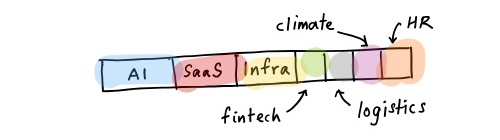
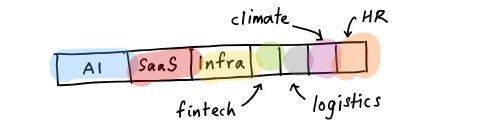
layout tweaks

Changed region(s): [[0.0909, 0.0571, 0.8788, 0.9143]]

diff --git a/assets/css/style.css b/assets/css/style.css
@@ -92,6 +92,16 @@ th, td {
 }
 
 
+.image3 {
+  display: block;
+  margin-left: auto;
+  margin-right: auto;
+  margin-top: 0px;
+  margin-bottom: 0px;
+  width: 400px;
+}
+
+
 .footer {
   font-size: 15px;
   line-height: 1.5;

diff --git a/essays/6-months-of-angel-investing.md b/essays/6-months-of-angel-investing.md
@@ -53,16 +53,16 @@ These 3 investments join the 7 investments I made in the preceding 2 years, givi
 Here are a few different ways to slice my portfolio.
 
 * By geography: 6 Canada, 3 USA, 1 Europe. 
-<img src="/assets/img/slice-geography.jpg" class="image">
+<img src="/assets/img/slice-geography.jpg" class="image3">
 
 * By deal source: 4 cold inbound, 4 warm intros, 2 personal network. 
-<img src="/assets/img/slice-channel.jpg" class="image">
+<img src="/assets/img/slice-channel.jpg" class="image3">
 
 * By founder demographics: 16 of 22 founders are women and/or minorities and/or first-generation immigrants.  
-<img src="/assets/img/slice-founders.jpg" class="image">
+<img src="/assets/img/slice-founders.jpg" class="image3">
 
 * By business category: 2 AI, 2 SaaS, 2 infrastructure, 1 fintech, 1 logistics, 1 HR, 1 climate.
-<img src="/assets/img/slice-category.jpg" class="image">
+<img src="/assets/img/slice-category.jpg" class="image3">
 
 
 
